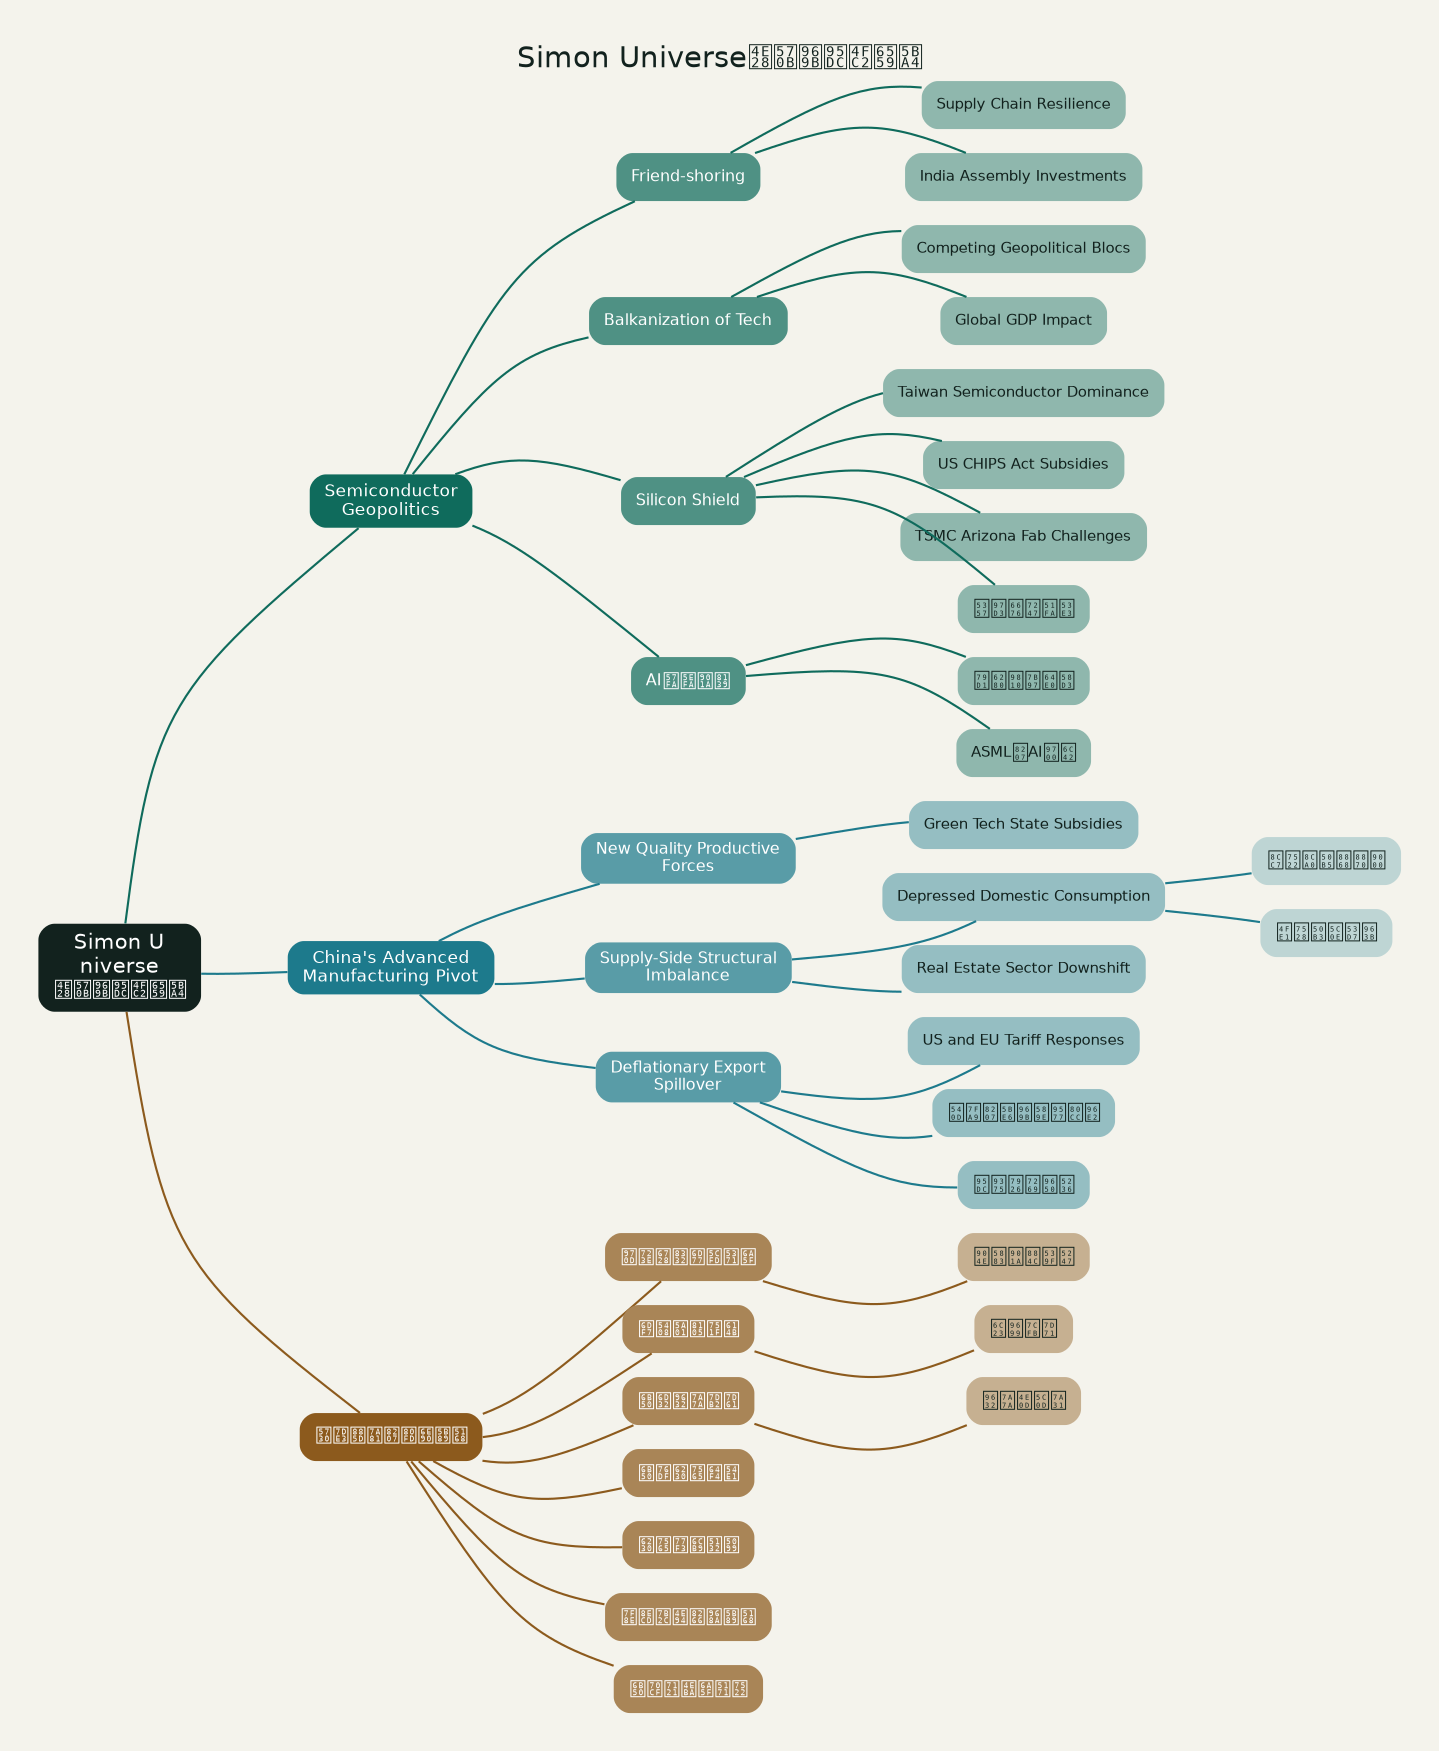
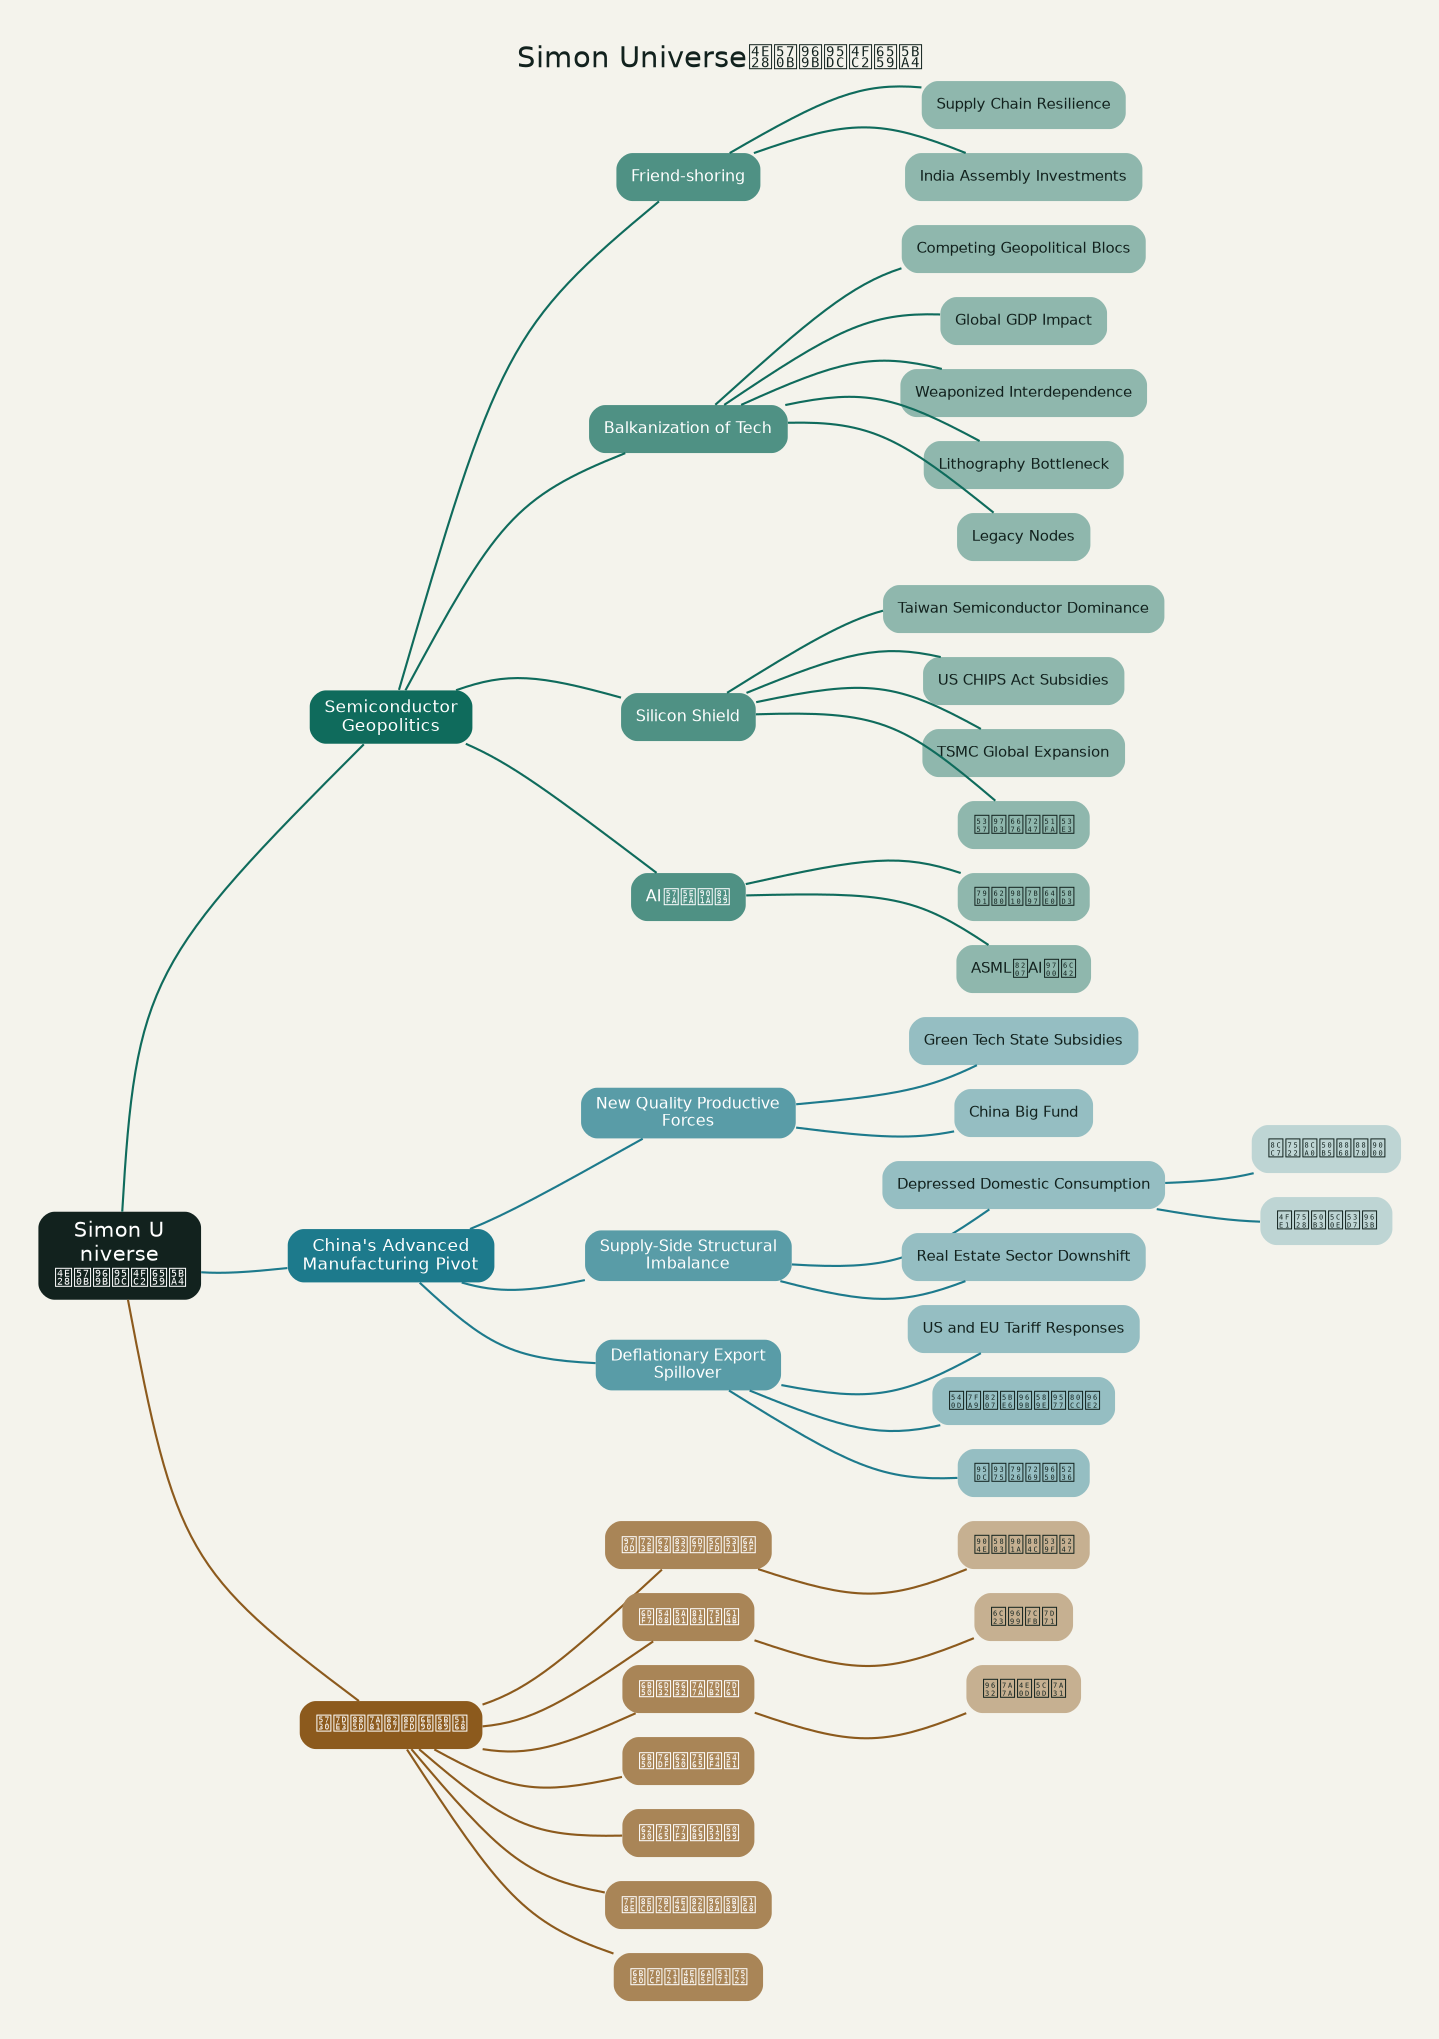
digest: 2026-07-17 08:33

diff --git a/docs/index.html b/docs/index.html
@@ -59,7 +59,16 @@ footer{margin-top:60px;border-top:3px double var(--ink);padding-top:14px;
 </style></head><body><div class="wrap">
 <header class="masthead"><h1>Happy Birthday <span>Kwong</span></h1>
 <div class="sub">The global political economy wire · summarized, mapped, delivered · with love from Nicole</div></header>
-<nav class="chips"><a class="chip" href="channel-UCVlAELI2OVTx03PvpXoLCWQ.html">BettBeat Media</a><a class="chip" href="channel-UCAHr-sT0AjrD3sBwr1eRUNg.html">Mark Meldrum</a><a class="chip" href="channel-UCXf8jlTSP9kp6g4ROCfgvbQ.html">Simon Universe丨國際關係教室</a></nav><div class="daterule">2026-07-16</div><article class="brief">
+<nav class="chips"><a class="chip" href="channel-UCVlAELI2OVTx03PvpXoLCWQ.html">BettBeat Media</a><a class="chip" href="channel-UCAHr-sT0AjrD3sBwr1eRUNg.html">Mark Meldrum</a><a class="chip" href="channel-UCXf8jlTSP9kp6g4ROCfgvbQ.html">Simon Universe丨國際關係教室</a></nav><div class="daterule">2026-07-17</div><article class="brief">
+<div class="slug"><a href="channel-UCXf8jlTSP9kp6g4ROCfgvbQ.html">Simon Universe丨國際關係教室</a> · 2026-07-17 · <b>watch → 2 min read</b></div>
+<h2><a href="https://www.youtube.com/watch?v=VYHWUmzFdfU" target="_blank" rel="noopener">每日國際新聞｜烏克蘭防長遭撤、台積電加碼美國、羅興亞船難恐逾500死｜Simon Universe 國際關係教室</a></h2>
+<p class="tldr"><strong>The Gist</strong> — US export controls on advanced semiconductor technology are forcing a bifurcation of the global chip supply chain, accelerating China&#x27;s domestic indigenization efforts despite severe technological bottlenecks.</p>
+<details><summary>Read the briefing</summary><div class="body">
+<h3>Summary</h3><p>The global semiconductor industry is undergoing a structural realignment driven by geopolitical competition rather than market efficiency. The United States has weaponized its dominance in semiconductor design and electronic design automation (EDA) software, leveraging unilateral and multilateral export controls—most notably restricting ASML&#x27;s extreme ultraviolet (EUV) lithography shipments—to choke off China&#x27;s access to leading-edge nodes. This strategy aims to preserve a &quot;large a lead as possible&quot; in artificial intelligence and military capabilities, fundamentally altering the borderless efficiency model that defined the industry for three decades.</p><p>In response, Beijing is executing a massive import-substitution strategy, pouring hundreds of billions of dollars into its &quot;Big Fund&quot; to foster domestic champions like SMIC and Huawei. While Chinese firms have successfully commercialized legacy nodes and achieved surprising workarounds in 7nm chips using older DUV equipment, they face diminishing returns and severe yield issues without access to EUV technology. Consequently, the industry is bifurcating into a highly subsidized, Western-aligned advanced ecosystem and a heavily protected, mature-node Chinese ecosystem.</p><p>Ultimately, these capital-intensive decoupling efforts threaten to trigger structural overcapacity in legacy chips while driving up production costs for advanced semiconductors globally. As TSMC, Intel, and Samsung build out redundant, geopolitically secure fabrication facilities in the US and Europe, the global economy must prepare for a permanent inflationary premium on high-tech hardware.</p>
+<h3>Highlights</h3><ul><li>The US has restricted ASML from exporting its advanced Extreme Ultraviolet (EUV) and high-end Deep Ultraviolet (DUV) lithography machines to Chinese customers.</li><li>China&#x27;s National Integrated Circuit Industry Investment Fund (Big Fund) has raised over $47 billion in its third phase to achieve semiconductor self-sufficiency.</li><li>SMIC successfully manufactured 7nm-class chips for Huawei using multi-patterning on older DUV systems, though experts question the commercial viability and yield rates.</li><li>TSMC&#x27;s expansion into Arizona and Germany represents a shift from cost-optimized centralization to geopolitically resilient decentralization, raising capital expenditure requirements.</li></ul>
+<h3>Key concepts</h3><ul><li><strong>Weaponized Interdependence</strong> — The practice of states leveraging centralized nodes in global networks (like financial systems or supply chains) to exert geopolitical pressure on adversaries.</li><li><strong>Lithography Bottleneck</strong> — The extreme difficulty of replicating ASML&#x27;s EUV technology, which acts as a physical gatekeeper to manufacturing chips below the 5-nanometer threshold.</li><li><strong>Legacy Nodes</strong> — Semiconductor fabrication processes (typically 28nm and above) used for automotive, industrial, and IoT applications, currently dominated by Chinese capacity expansion.</li></ul>
+<p class="why">Why it matters — This technological schism marks the end of hyper-globalization, signaling a new era where national security imperatives permanently supersede market efficiency in global supply chains.</p>
+</div></details></article><div class="daterule">2026-07-16</div><article class="brief">
 <div class="slug"><a href="channel-UCXf8jlTSP9kp6g4ROCfgvbQ.html">Simon Universe丨國際關係教室</a> · 2026-07-16 · <b>watch → 2 min read</b></div>
 <h2><a href="https://www.youtube.com/watch?v=nYtbwQCKI5o" target="_blank" rel="noopener">每日國際新聞｜伊朗攻擊美軍第五艦隊、ASML上調預測、日本建絕密雲端｜Simon Universe 國際關係教室</a></h2>
 <p class="tldr"><strong>The Gist</strong> — 本期簡報聚焦中東安全、全球能源與晶片供應鏈、西方關鍵礦物自主及英日最新政經動態。</p>

diff --git a/docs/channel-UCXf8jlTSP9kp6g4ROCfgvbQ.html b/docs/channel-UCXf8jlTSP9kp6g4ROCfgvbQ.html
@@ -60,6 +60,15 @@ footer{margin-top:60px;border-top:3px double var(--ink);padding-top:14px;
 <header class="masthead"><h1>Happy Birthday <span>Kwong</span></h1>
 <div class="sub">The global political economy wire · summarized, mapped, delivered · with love from Nicole</div></header>
 <nav class="chips"><a class="chip" href="index.html">← All briefings</a><a class="chip" href="packs/UCXf8jlTSP9kp6g4ROCfgvbQ.md" download="NotebookLM Pack — Simon Universe丨國際關係教室.md">⬇ Download NotebookLM Pack</a><a class="chip" href="notebooklm.html">NotebookLM guide</a></nav><div class="daterule">Simon Universe丨國際關係教室 · knowledge map</div><img class="mindmap" src="mindmaps/UCXf8jlTSP9kp6g4ROCfgvbQ.png" alt="Mind map of Simon Universe丨國際關係教室"><article class="brief">
+<div class="slug">Simon Universe丨國際關係教室 · 2026-07-17 · <b>watch → 2 min read</b></div>
+<h2><a href="https://www.youtube.com/watch?v=VYHWUmzFdfU" target="_blank" rel="noopener">每日國際新聞｜烏克蘭防長遭撤、台積電加碼美國、羅興亞船難恐逾500死｜Simon Universe 國際關係教室</a></h2>
+<p class="tldr"><strong>The Gist</strong> — US export controls on advanced semiconductor technology are forcing a bifurcation of the global chip supply chain, accelerating China&#x27;s domestic indigenization efforts despite severe technological bottlenecks.</p>
+<details><summary>Read the briefing</summary><div class="body">
+<h3>Summary</h3><p>The global semiconductor industry is undergoing a structural realignment driven by geopolitical competition rather than market efficiency. The United States has weaponized its dominance in semiconductor design and electronic design automation (EDA) software, leveraging unilateral and multilateral export controls—most notably restricting ASML&#x27;s extreme ultraviolet (EUV) lithography shipments—to choke off China&#x27;s access to leading-edge nodes. This strategy aims to preserve a &quot;large a lead as possible&quot; in artificial intelligence and military capabilities, fundamentally altering the borderless efficiency model that defined the industry for three decades.</p><p>In response, Beijing is executing a massive import-substitution strategy, pouring hundreds of billions of dollars into its &quot;Big Fund&quot; to foster domestic champions like SMIC and Huawei. While Chinese firms have successfully commercialized legacy nodes and achieved surprising workarounds in 7nm chips using older DUV equipment, they face diminishing returns and severe yield issues without access to EUV technology. Consequently, the industry is bifurcating into a highly subsidized, Western-aligned advanced ecosystem and a heavily protected, mature-node Chinese ecosystem.</p><p>Ultimately, these capital-intensive decoupling efforts threaten to trigger structural overcapacity in legacy chips while driving up production costs for advanced semiconductors globally. As TSMC, Intel, and Samsung build out redundant, geopolitically secure fabrication facilities in the US and Europe, the global economy must prepare for a permanent inflationary premium on high-tech hardware.</p>
+<h3>Highlights</h3><ul><li>The US has restricted ASML from exporting its advanced Extreme Ultraviolet (EUV) and high-end Deep Ultraviolet (DUV) lithography machines to Chinese customers.</li><li>China&#x27;s National Integrated Circuit Industry Investment Fund (Big Fund) has raised over $47 billion in its third phase to achieve semiconductor self-sufficiency.</li><li>SMIC successfully manufactured 7nm-class chips for Huawei using multi-patterning on older DUV systems, though experts question the commercial viability and yield rates.</li><li>TSMC&#x27;s expansion into Arizona and Germany represents a shift from cost-optimized centralization to geopolitically resilient decentralization, raising capital expenditure requirements.</li></ul>
+<h3>Key concepts</h3><ul><li><strong>Weaponized Interdependence</strong> — The practice of states leveraging centralized nodes in global networks (like financial systems or supply chains) to exert geopolitical pressure on adversaries.</li><li><strong>Lithography Bottleneck</strong> — The extreme difficulty of replicating ASML&#x27;s EUV technology, which acts as a physical gatekeeper to manufacturing chips below the 5-nanometer threshold.</li><li><strong>Legacy Nodes</strong> — Semiconductor fabrication processes (typically 28nm and above) used for automotive, industrial, and IoT applications, currently dominated by Chinese capacity expansion.</li></ul>
+<p class="why">Why it matters — This technological schism marks the end of hyper-globalization, signaling a new era where national security imperatives permanently supersede market efficiency in global supply chains.</p>
+</div></details></article><article class="brief">
 <div class="slug">Simon Universe丨國際關係教室 · 2026-07-16 · <b>watch → 2 min read</b></div>
 <h2><a href="https://www.youtube.com/watch?v=nYtbwQCKI5o" target="_blank" rel="noopener">每日國際新聞｜伊朗攻擊美軍第五艦隊、ASML上調預測、日本建絕密雲端｜Simon Universe 國際關係教室</a></h2>
 <p class="tldr"><strong>The Gist</strong> — 本期簡報聚焦中東安全、全球能源與晶片供應鏈、西方關鍵礦物自主及英日最新政經動態。</p>

diff --git a/docs/packs/UCXf8jlTSP9kp6g4ROCfgvbQ.md b/docs/packs/UCXf8jlTSP9kp6g4ROCfgvbQ.md
@@ -286,3 +286,39 @@ This structural shift redefines the global trade order, forcing Western economie
 
 
 ---
+
+# 每日國際新聞｜烏克蘭防長遭撤、台積電加碼美國、羅興亞船難恐逾500死｜Simon Universe 國際關係教室
+
+**Channel:** Simon Universe丨國際關係教室  
+**Published:** 2026-07-17  
+**Link:** https://www.youtube.com/watch?v=VYHWUmzFdfU
+
+> **The Gist** — US export controls on advanced semiconductor technology are forcing a bifurcation of the global chip supply chain, accelerating China's domestic indigenization efforts despite severe technological bottlenecks.
+
+## Summary
+
+The global semiconductor industry is undergoing a structural realignment driven by geopolitical competition rather than market efficiency. The United States has weaponized its dominance in semiconductor design and electronic design automation (EDA) software, leveraging unilateral and multilateral export controls—most notably restricting ASML's extreme ultraviolet (EUV) lithography shipments—to choke off China's access to leading-edge nodes. This strategy aims to preserve a "large a lead as possible" in artificial intelligence and military capabilities, fundamentally altering the borderless efficiency model that defined the industry for three decades.
+
+In response, Beijing is executing a massive import-substitution strategy, pouring hundreds of billions of dollars into its "Big Fund" to foster domestic champions like SMIC and Huawei. While Chinese firms have successfully commercialized legacy nodes and achieved surprising workarounds in 7nm chips using older DUV equipment, they face diminishing returns and severe yield issues without access to EUV technology. Consequently, the industry is bifurcating into a highly subsidized, Western-aligned advanced ecosystem and a heavily protected, mature-node Chinese ecosystem.
+
+Ultimately, these capital-intensive decoupling efforts threaten to trigger structural overcapacity in legacy chips while driving up production costs for advanced semiconductors globally. As TSMC, Intel, and Samsung build out redundant, geopolitically secure fabrication facilities in the US and Europe, the global economy must prepare for a permanent inflationary premium on high-tech hardware.
+
+## Highlights
+
+- The US has restricted ASML from exporting its advanced Extreme Ultraviolet (EUV) and high-end Deep Ultraviolet (DUV) lithography machines to Chinese customers.
+- China's National Integrated Circuit Industry Investment Fund (Big Fund) has raised over $47 billion in its third phase to achieve semiconductor self-sufficiency.
+- SMIC successfully manufactured 7nm-class chips for Huawei using multi-patterning on older DUV systems, though experts question the commercial viability and yield rates.
+- TSMC's expansion into Arizona and Germany represents a shift from cost-optimized centralization to geopolitically resilient decentralization, raising capital expenditure requirements.
+
+## Key Concepts
+
+- **Weaponized Interdependence** — The practice of states leveraging centralized nodes in global networks (like financial systems or supply chains) to exert geopolitical pressure on adversaries.
+- **Lithography Bottleneck** — The extreme difficulty of replicating ASML's EUV technology, which acts as a physical gatekeeper to manufacturing chips below the 5-nanometer threshold.
+- **Legacy Nodes** — Semiconductor fabrication processes (typically 28nm and above) used for automotive, industrial, and IoT applications, currently dominated by Chinese capacity expansion.
+
+## Why It Matters
+
+This technological schism marks the end of hyper-globalization, signaling a new era where national security imperatives permanently supersede market efficiency in global supply chains.
+
+
+---
